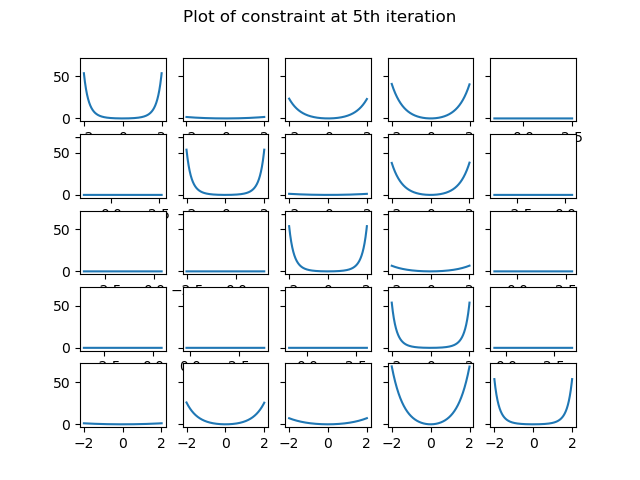
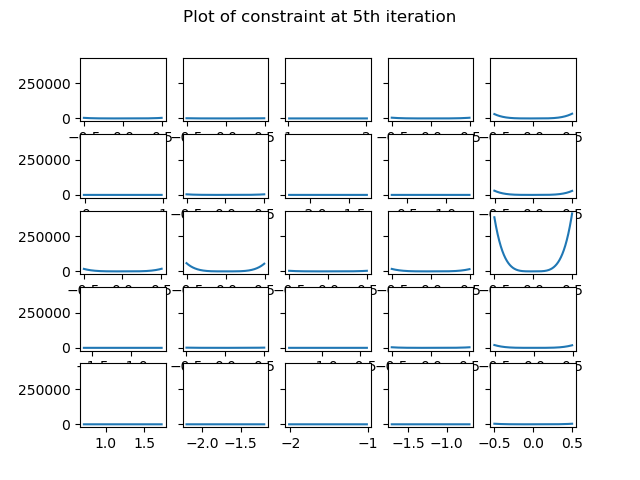
Modified plots and plotting script

diff --git a/visualization.py b/visualization.py
@@ -9,6 +9,10 @@ i.e. lambda = 0, hence it requires n >> d.
 import numpy as np
 import scipy.linalg as slin
 import scipy.optimize as sopt
+import matplotlib.pyplot as plt
+
+from sklearn.decomposition import PCA
+from mpl_toolkits.mplot3d import Axes3D
 
 
 def notears_simple(X: np.ndarray,
@@ -43,10 +47,52 @@ def notears_simple(X: np.ndarray,
         obj_grad = loss_grad + (rho * (np.trace(E) - d) + alpha) * E.T * W * 2
         return obj_grad.flatten()
 
+    def _visualize_func(w, title):
+        # Visualize each coordinate in the weight matrix
+        eps = np.linspace(-.5, .5, 1e4)
+        path = title + ".png"
+        fig, axes = plt.subplots(d, d, sharey = True)
+        w_shaped = w.reshape(d, d)
+        for i in range(d):
+            for j in range(d):
+                # pick the coordinate to be changed
+                xs = eps + w_shaped[i, j]
+                ys = np.zeros(len(eps))
+                for k in range(len(eps)):
+                    w_prime = w_shaped.copy()
+                    w_prime[i, j] += eps[k]
+                    ys[k] = _func(w_prime)
+                axes[i, j].plot(xs, ys)
+                ys.dump(title + "_" + str(i) + "_" + str(j) + ".npy")
+        fig.suptitle(title)
+        fig.savefig(path)
+
+    def _visualize_h(w, title):
+        # Visualize each coordinate in the weight matrix
+        eps = np.linspace(-.5, .5, 1e4)
+        path = title + ".png"
+        fig, axes = plt.subplots(d, d, sharey = True)
+        w_shaped = w.reshape(d, d)
+        for i in range(d):
+            for j in range(d):
+                # pick the coordinate to be changed
+                xs = eps + w_shaped[i, j]
+                ys = np.zeros(len(eps))
+                for k in range(len(eps)):
+                    w_prime = w_shaped.copy()
+                    w_prime[i, j] += eps[k]
+                    ys[k] = _func(w_prime)
+                axes[i, j].plot(xs, ys)
+        fig.suptitle(title)
+        fig.savefig(path)
+
     n, d = X.shape
     w_est, w_new = np.zeros(d * d), np.zeros(d * d)
     rho, alpha, h, h_new = 1.0, 0.0, np.inf, np.inf
+    w_time = None
+    pca_vis = PCA(n_components=2)
     bnds = [(0, 0) if i == j else (None, None) for i in range(d) for j in range(d)]
+    num_iter = 0
     for _ in range(max_iter):
         while rho < 1e+20:
             sol = sopt.minimize(_func, w_est, method='L-BFGS-B', jac=_grad, bounds=bnds)
@@ -57,10 +103,41 @@ def notears_simple(X: np.ndarray,
             else:
                 break
         w_est, h = w_new, h_new
+        num_iter += 1
+        if num_iter == 5:
+            _visualize_h(w_est.reshape([d, d]),
+                "Plot of constraint at 5th iteration")
+            _visualize_func(w_est.reshape([d, d]),
+                "Plot of function at 5th iteration")
+        if w_time is not None:
+            w_time = np.hstack((w_time, w_est[:, np.newaxis]))
+        else:
+            w_time = w_est[:, np.newaxis]
+            # First iteration
+
         alpha += rho * h
         if h <= h_tol:
             break
     w_est[np.abs(w_est) < w_threshold] = 0
+    _visualize_h(w_est.reshape([d, d]), "Plot of constraint at final solution")
+    _visualize_func(w_est.reshape([d, d]), "Plot of function at final solution")
+    w_time_pc = pca_vis.fit_transform(w_time)
+    eps = np.linspace(-.5, .5, 1e4)
+    cons_along_pc = np.zeros((int(1e4), int(1e4)))
+    func_along_pc = np.zeros((int(1e4), int(1e4)))
+    for i in range(len(eps)):
+        for j in range(len(eps)):
+            w_temp = w_est.copy()
+            w_temp += eps[i] * w_time_pc[:, 0]
+            w_temp += eps[j] * w_time_pc[:, 1]
+            cons_along_pc[i, j] = _h(w_temp[:, np.newaxis])
+            func_along_pc[i, j] = _func(w_temp[:, np.newaxis])
+
+    X, Y = np.meshgrid(eps, eps)
+    Axes3D.plot_surface(X, Y, cons_along_pc)
+    plt.show()
+    Axes3D.plot_surface(X, Y, func_along_pc)
+    plt.show()
     return w_est.reshape([d, d])
 
 
@@ -70,7 +147,7 @@ if __name__ == '__main__':
     import utils
 
     # configurations
-    n, d = 1000, 10
+    n, d = 1000, 5
     graph_type, degree, sem_type = 'erdos-renyi', 4, 'linear-gauss'
     log.info('Graph: %d node, avg degree %d, %s graph', d, degree, graph_type)
     log.info('Data: %d samples, %s SEM', n, sem_type)
